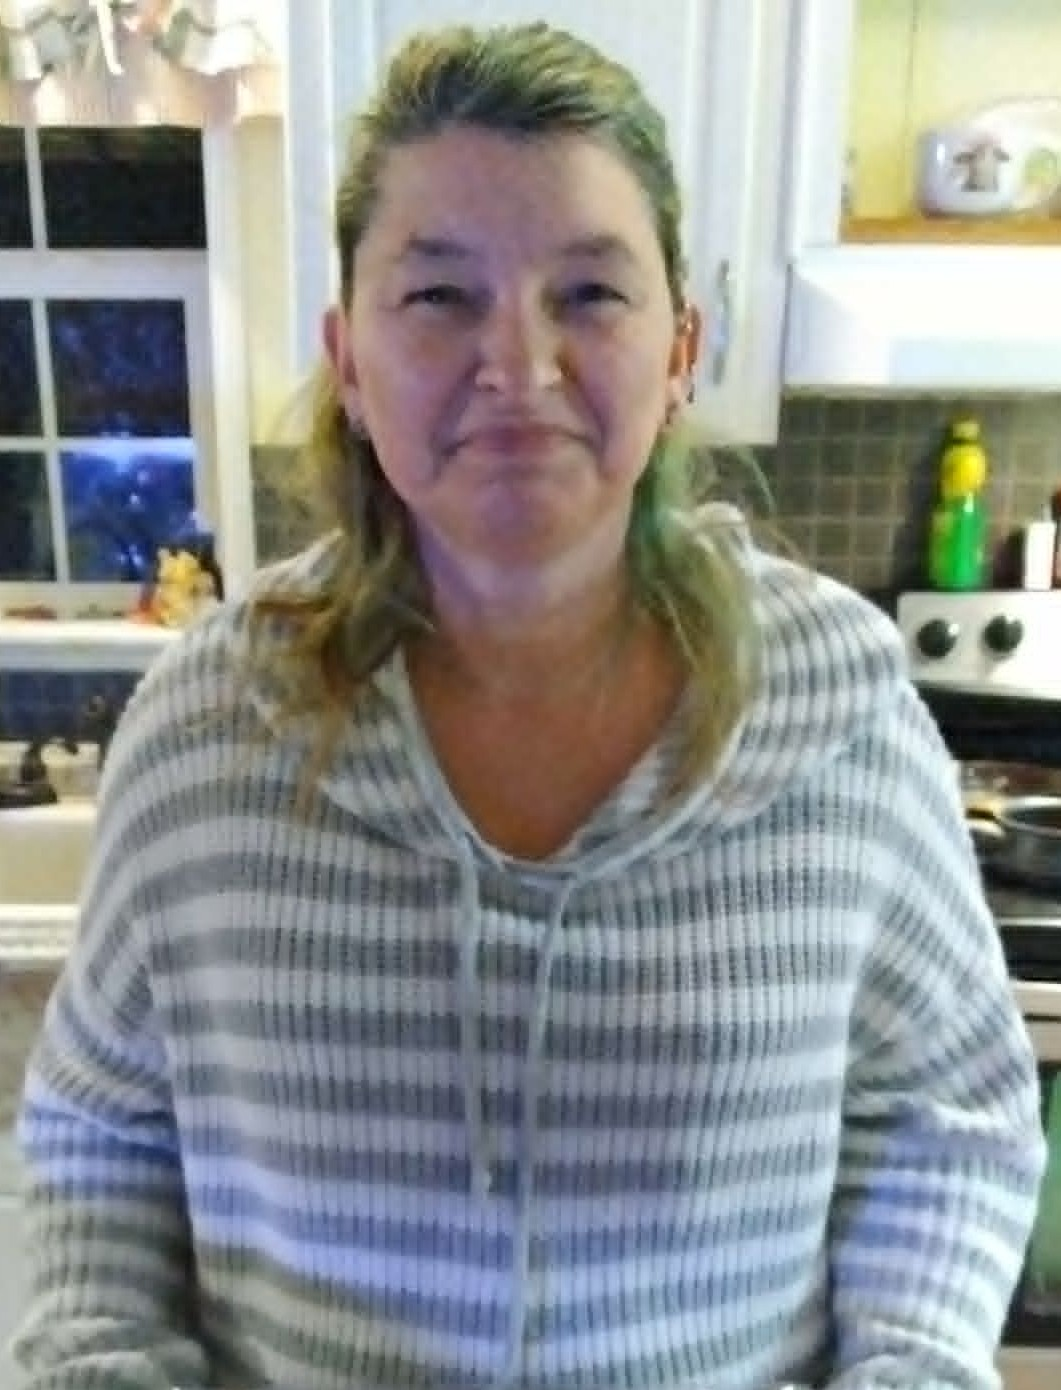
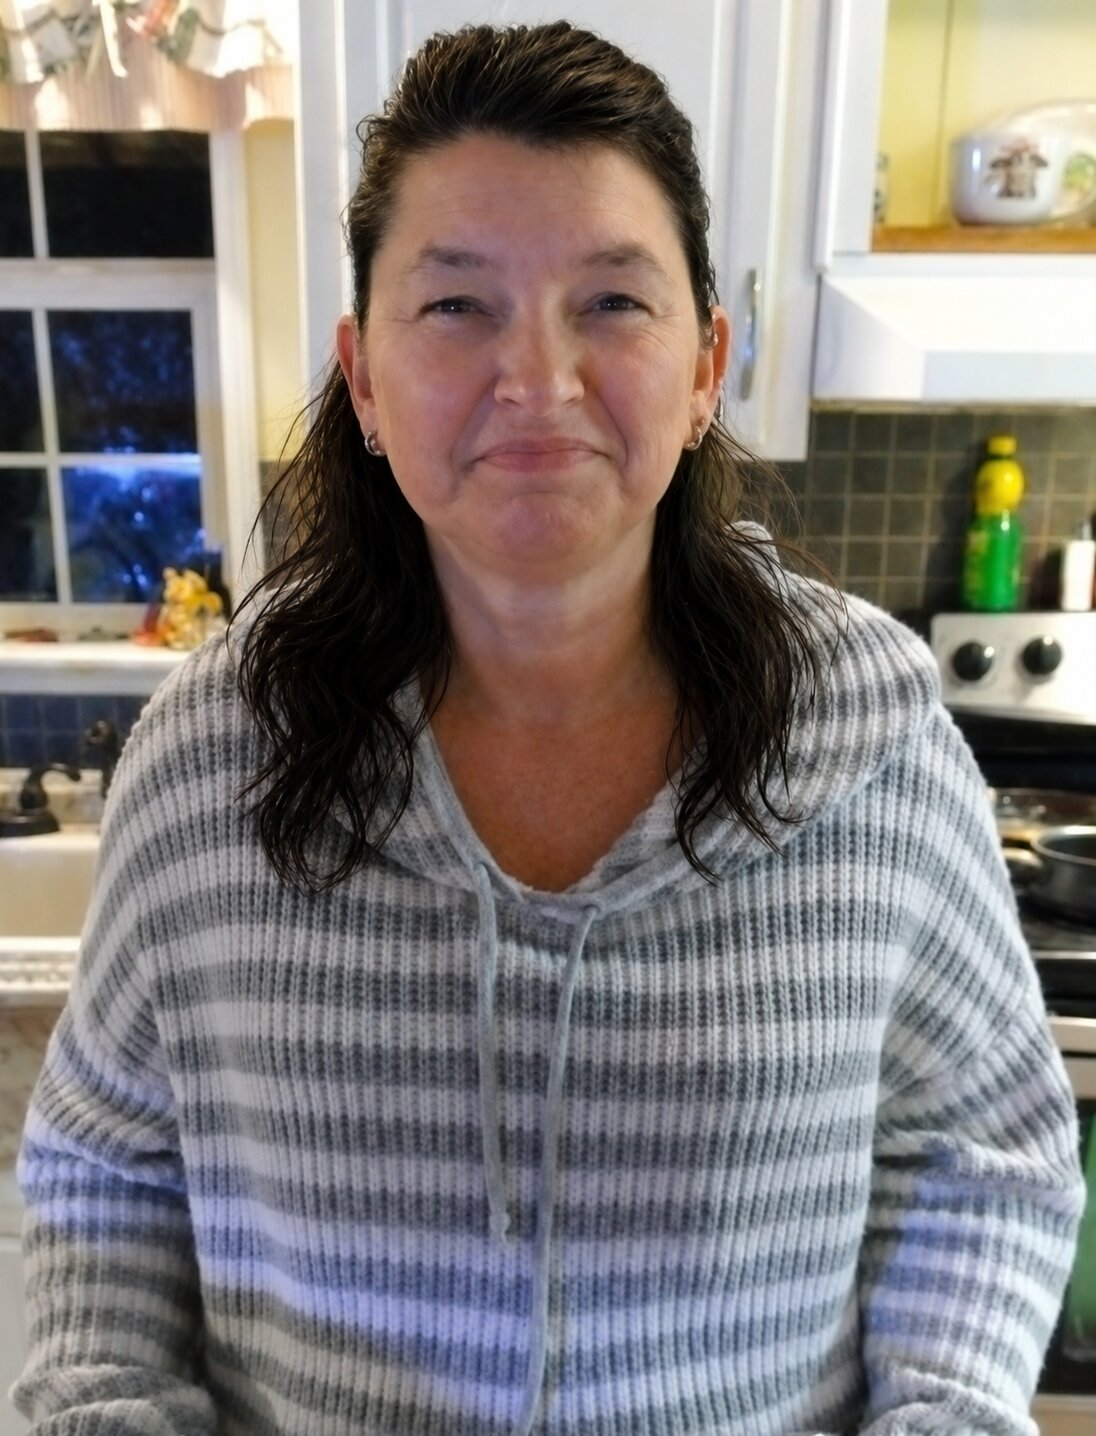
Revision Final

diff --git a/about.html b/about.html
@@ -38,8 +38,8 @@
     <section class="content-row">
 
       <div class="subject-photo">
-        <img src="images/sherri.png" alt="Portrait of Sherri">
-        <img src="images/sherri-basses.png" alt="Sherri with a few of her basses">
+        <img src="images/sherri.jpg" alt="Portrait of Sherri">
+        <img src="images/sherri-basses.jpg" alt="Sherri with a few of her basses">
       </div>
 
       <div class="content-text">

diff --git a/template.html b/template.html
@@ -1,6 +1,6 @@
 <!DOCTYPE html>
 <!-- Student Name: Mitchell Hess
-  File Name: index.html
+  File Name: template.html
   Date: July 11, 2026-->
 <html lang="en">
 <head>
